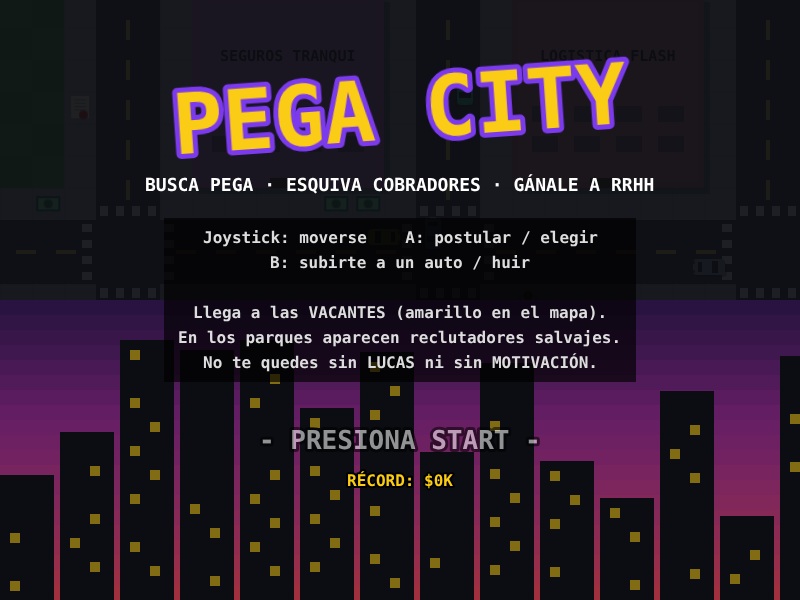
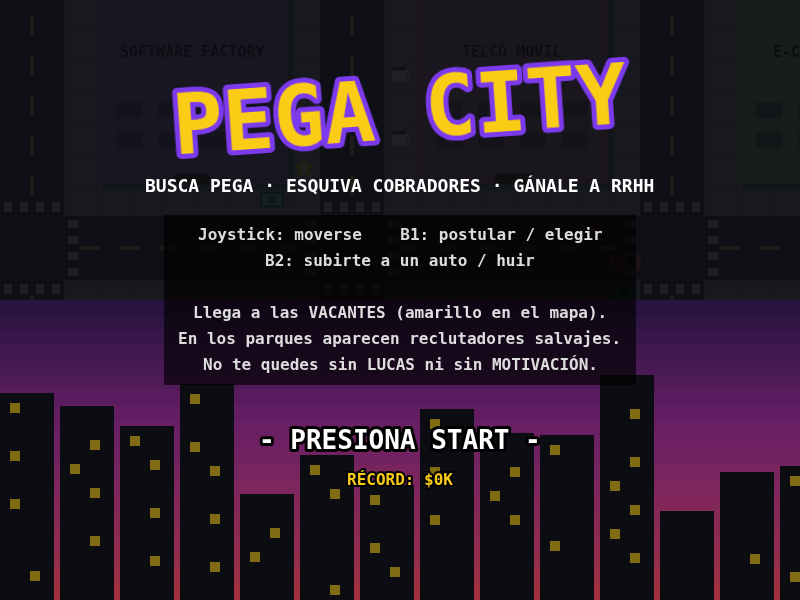
Arcade release v2

diff --git a/game.js b/game.js
@@ -325,9 +325,11 @@ function getStorage() {
   };
 }
 function loadHi() {
-  HIQ = Promise.resolve().then(() => getStorage().get(HI_KEY)).then(r => {
-    const v = r && r.found ? +r.value : 0; // valida lo leído: el formato pudo cambiar
-    if (isFinite(v) && v > REC) REC = v;
+  // timeout: si el bridge nunca responde, no bloquea los guardados posteriores
+  const get = Promise.resolve().then(() => getStorage().get(HI_KEY));
+  HIQ = Promise.race([get, new Promise(ok => setTimeout(ok, 3000))]).then(r => {
+    const v = r && r.found ? r.value : 0; // valida lo leído: el formato pudo cambiar
+    if (typeof v == 'number' && v > REC && v < 1e9) REC = v;
     if (G && G.recT && G.recT.active) G.recT.setText('RÉCORD: ' + money(REC));
   }).catch(() => { });
 }
